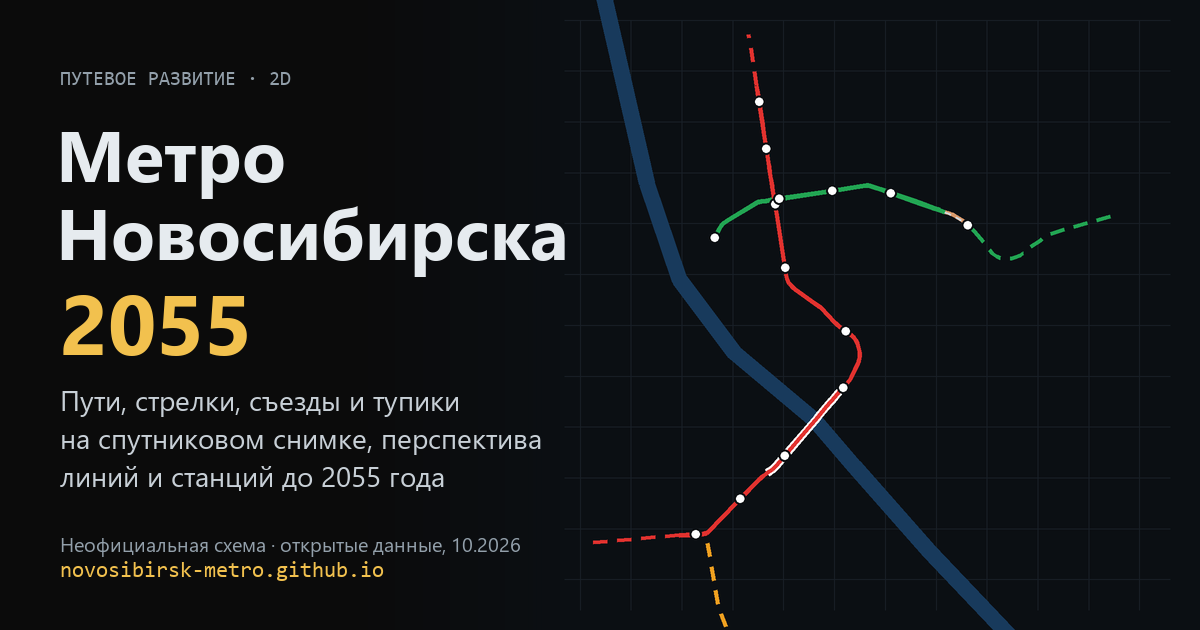
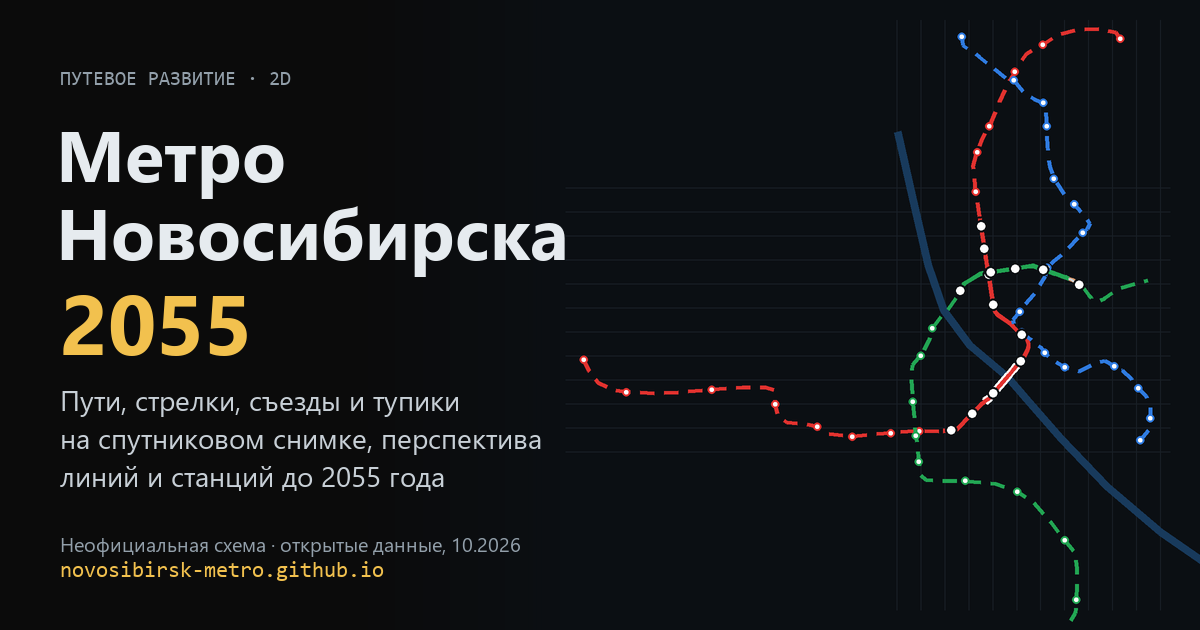
Add files via upload

diff --git a/index.html b/index.html
@@ -138,6 +138,7 @@ input[type=range]{width:100%;accent-color:var(--accent)}
       <div class="lg">
         <div><i style="--c:#e2322f"></i>Ленинская линия</div>
         <div><i style="--c:#22a653"></i>Дзержинская линия</div>
+        <div><i class="d" style="--c:#2f7be0"></i>Правобережная линия (проект)</div>
         <div><i style="--c:#d99a6c"></i>Однопутный участок (движение в обе стороны)</div>
         <div><i class="d" style="--c:#cfd6dc"></i>Недостроенный тоннель</div>
         <div><i class="d" style="--c:#22a653"></i>Проектируемый участок</div>
@@ -223,6 +224,24 @@ const FUT={
     src:['fp24','gen']}
 };
 
+/* ---------------- генеральная схема метро до 2055 г. (проект изменений Генплана, 10.2026) ---------------- */
+// трассы и станции, снятые со схемы мэрии и привязанные к карте (см. README); ед. = 10 м
+var GP={"l1n": {"pts": [[-53.2, -480.2], [-69.7, -584.0], [-80.2, -689.2], [-64.4, -748.1], [-42.7, -803.1], [-13.3, -856.2], [30.6, -958.8], [73.2, -1050.3], [91.8, -1085.0], [142.5, -1159.8], [209.0, -1197.7], [275.4, -1241.0], [361.3, -1260.4], [456.8, -1263.1], [514.3, -1247.9], [531.8, -1222.0]], "st": [{"n": "Северная", "no": "9.? (ТПУ «Северная»)", "i": 1}, {"n": "Авиационная", "no": "9.16", "i": 3}, {"n": "Космическая", "no": "9.17", "i": 5}, {"n": "Родники", "no": "9.18", "i": 8}, {"n": "Песчаная", "no": "9.19", "i": 10}, {"n": "Клюквенная", "no": "9.20", "i": 15}], "depot": null}, "l1w": {"pts": [[-224.9, 417.1], [-306.5, 414.2], [-424.4, 422.4], [-507.5, 429.7], [-584.0, 438.6], [-681.6, 426.9], [-730.4, 395.3], [-790.5, 385.6], [-858.1, 379.4], [-891.1, 355.2], [-905.1, 301.9], [-905.4, 272.6], [-911.4, 245.0], [-946.3, 233.6], [-1042.8, 232.5], [-1170.5, 241.8], [-1271.6, 251.2], [-1393.2, 258.2], [-1527.9, 251.8], [-1579.5, 245.2], [-1641.6, 214.4], [-1682.3, 163.8], [-1704.6, 115.6]], "st": [{"n": "Площадь Станиславского", "no": "пересадка на Дзержинскую", "i": 1}, {"n": "Троллейная", "no": "ТПУ «Троллейная»", "i": 2}, {"n": "Связистов", "no": "", "i": 4}, {"n": "Чистая Слобода", "no": "9.2", "i": 6}, {"n": "Западная", "no": "9.3", "i": 10}, {"n": "Экспоцентр", "no": "9.4", "i": 15}, {"n": "Город Обь", "no": "9.5", "i": 18}, {"n": "Аэропорт Толмачёво", "no": "9.6", "i": 22}], "depot": {"n": "Объект 68.1 (электродепо по условному знаку)", "route": [[-1191.6, 261.6]]}}, "l2w": {"pts": [[-152.4, -139.6], [-187.6, -91.5], [-214.6, -65.7], [-251.4, -14.3], [-265.8, 37.1], [-300.0, 100.9], [-335.6, 138.6], [-339.4, 202.1], [-333.2, 291.9], [-325.3, 381.7], [-320.3, 432.6], [-312.6, 491.5], [-307.6, 541.5], [-303.1, 593.5], [-278.4, 617.8], [-224.3, 620.0], [-114.0, 621.7], [12.7, 633.9], [102.4, 666.7], [172.1, 713.3], [240.6, 792.7], [301.9, 870.2], [342.2, 918.2], [350.3, 987.9], [350.8, 1061.2], [349.3, 1118.0], [345.9, 1172.9], [325.1, 1205.7]], "st": [{"n": "Аквапарк", "no": "9.7", "i": 3}, {"n": "Затон", "no": "9.8", "i": 5}, {"n": "Площадь Труда", "no": "9.9", "i": 8}, {"n": "Площадь Станиславского", "no": "9.10", "i": 10}, {"n": "Юго-Западная", "no": "9.11", "i": 12}, {"n": "Гвардейская", "no": "9.12", "i": 16}, {"n": "Бугринская", "no": "9.13", "i": 18}, {"n": "Лесопарковая", "no": "9.14", "i": 21}, {"n": "Краснообск", "no": "9.15", "i": 25}], "depot": {"n": "Объект 68.2 (электродепо по условному знаку)", "route": [[298.4, 1214.6]]}}, "l3": {"pts": [[-128.0, -1230.3], [-123.7, -1195.4], [-54.3, -1147.0], [30.8, -1078.2], [67.5, -1044.8], [88.5, -1048.3], [127.3, -1002.0], [173.5, -968.6], [211.8, -955.4], [222.0, -911.3], [226.5, -858.0], [227.7, -773.5], [238.5, -687.2], [256.1, -637.6], [300.1, -571.5], [341.7, -531.2], [386.6, -480.1], [405.1, -451.0], [395.9, -427.3], [375.7, -412.7], [303.0, -332.0], [254.0, -291.2], [227.7, -267.2], [219.4, -232.5], [169.4, -152.0], [132.5, -109.3], [114.0, -83.5], [84.4, -47.4], [94.4, -17.1], [121.0, 1.0], [159.0, 31.0], [200.1, 64.9], [217.2, 87.2], [253.9, 118.9], [302.2, 148.6], [361.6, 163.5], [431.1, 130.0], [468.6, 120.6], [506.7, 142.8], [541.0, 161.3], [577.8, 196.6], [607.3, 235.6], [638.5, 267.1], [658.7, 311.6], [657.8, 359.6], [656.8, 403.8], [615.7, 453.2]], "st": [{"n": "Петрозаводская", "no": "9.21 (ТПУ «Стрижи»)", "i": 0}, {"n": "Родники", "no": "9.22", "i": 5}, {"n": "Снегири", "no": "9.23", "i": 8}, {"n": "Юбилейная", "no": "9.24", "i": 10}, {"n": "Учительская", "no": "9.25", "i": 13}, {"n": "Восточная", "no": "9.26", "i": 15}, {"n": "Чкаловская", "no": "9.27", "i": 19}, {"n": "Берёзовая роща", "no": "9.28", "i": 22}, {"n": "Каменская", "no": "9.29", "i": 26}, {"n": "Октябрьская", "no": "9.30", "i": 29}, {"n": "Никитинская", "no": "9.31", "i": 32}, {"n": "Дунайская", "no": "9.32", "i": 34}, {"n": "Плющихинская", "no": "9.33", "i": 38}, {"n": "Выборная", "no": "9.34", "i": 41}, {"n": "Камышенская", "no": "9.35", "i": 44}, {"n": "Карьерная", "no": "9.36", "i": 46}], "depot": {"n": "Электродепо на Ключ-Камышенском плато (объект 60)", "route": [[607.3, 235.6], [650.0, 270.9], [696.1, 285.9], [810.8, 286.9], [846.5, 261.3]]}}};
+LINES.L3={name:'Правобережная',num:'3',color:0x2f7be0,css:'#2f7be0'};
+SRC.gp55={t:'Мэрия Новосибирска показала, каким хочет видеть метро к 2055 году (Царьград, 27.10.2026)',u:'https://nsk.tsargrad.tv/news/mjerija-novosibirska-pokazala-kakim-hochet-videt-metro-k-2055-godu_1923927'};
+SRC.ngs55={t:'Мэрия анонсировала планы по строительству новых станций метро (НГС, 26.10.2026)',u:'https://ngs.ru/text/transport/2026/10/26/76723898/'};
+var GPNOTE='Схема вошла в проект изменений Генерального плана, вынесенный на публичные слушания (22.10–20.11.2026); сроки и финансирование не определены. Положение станций снято со схемы мэрии, точность около 100–300 м.';
+FUT.l1n={title:'Ленинская линия на север: до Клюквенного',line:'L1',year:2055,stage:1,ll:[55.1298,83.0033],
+  facts:['Станции по схеме: «Северная», «Авиационная», «Космическая», «Родники» (пересадка на Правобережную линию), «Песчаная», «Клюквенная».','В Клюквенном — транспортно-пересадочный узел: метро, трамвай и городская электричка.',GPNOTE],src:['gp55','ngs55']};
+FUT.l1w={title:'Ленинская линия на запад: до аэропорта Толмачёво',line:'L1',year:2055,stage:1,ll:[55.0096,82.6529],
+  facts:['Станции по схеме: «Площадь Станиславского» (пересадка на Дзержинскую), «Троллейная», «Связистов», «Чистая Слобода», «Западная», «Экспоцентр», «Город Обь», «Аэропорт Толмачёво».','Продолжает оборотные тупики «Площади Маркса».',GPNOTE],src:['gp55','ngs55']};
+FUT.l2w={title:'Дзержинская линия на левый берег: до Краснообска',line:'L2',year:2055,stage:1,ll:[54.9196,82.9747],
+  facts:['От «Площади Гарина-Михайловского» через Обь к Лесоперевалке, далее через проезд Энергетиков, улицы Станиславского, Мира и Ватутина до Краснообска.','Станции по схеме: «Аквапарк», «Затон», «Площадь Труда», «Площадь Станиславского» (пересадка на Ленинскую), «Юго-Западная», «Гвардейская», «Бугринская», «Лесопарковая», «Краснообск»; за Краснообском — объект 68.2 (по условному знаку — электродепо).','Трасса обходит площадь Маркса; заделы советского времени у «Площади Маркса» в этом варианте не используются. Затулинского направления в схеме больше нет.',GPNOTE],src:['gp55','ngs55']};
+FUT.l3={title:'Правобережная (третья) линия',line:'L3',year:2055,stage:1,ll:[55.0440,82.9557],
+  facts:['От «Стрижей» через Калининский и Дзержинский районы до улицы Выборной и Ключ-Камышенского плато.','Станции по схеме: «Петрозаводская», «Родники», «Снегири», «Юбилейная», «Учительская», «Восточная», «Чкаловская», «Берёзовая роща» (пересадка на Дзержинскую), «Каменская», «Октябрьская» (пересадка на Ленинскую), «Никитинская», «Дунайская», «Плющихинская», «Выборная», «Камышенская», «Карьерная».','Электродепо — на Ключ-Камышенском плато, ветка от «Выборной».',GPNOTE],src:['gp55','ngs55']};
+FUT.molod.facts=['По схеме до 2055 г. Дзержинскую линию до «Молодёжной» предлагают построить полностью под землёй; раньше часть пути вдоль Гусинобродского шоссе планировали на эстакаде.','Далее — электродепо «Волочаевское» южнее станции.'];
+FUT.molod.src=['gp55','tm','tender','n79'];
+
 /* ---------------- подготовка данных ---------------- */
 var LKEY={1:'L1',2:'L2'};
 var pts=function(c){var r=[];for(var i=0;i<c.length;i+=2)r.push({x:c[i],z:c[i+1]});return r;};
@@ -296,31 +315,40 @@ function buildLine(c){
   c.stations.forEach(function(st){var s=st.s,q=at(p,S,s),pl=[];
     if(st.side){[1,-1].forEach(function(k){add({k:'plat',p:[off(at(p,S,s-5.2),k*(TR+0.25)),off(at(p,S,s+5.2),k*(TR+0.25)),off(at(p,S,s+5.2),k*(TR+0.95)),off(at(p,S,s-5.2),k*(TR+0.95))]},s);});}
     else add({k:'plat',p:[off(at(p,S,s-5.2),TR-0.25),off(at(p,S,s+5.2),TR-0.25),off(at(p,S,s+5.2),-TR+0.25),off(at(p,S,s-5.2),-TR+0.25)]},s);
-    FST.push({n:st.n,line:c.line,plan:st.plan,fut:st.fut,x:q.x,z:q.z});});
+    if(!st.skip)FST.push({n:st.n,line:c.line,plan:st.plan,fut:st.fut,x:q.x,z:q.z,grp:st.grp||c.line+'e',ord:st.ord||0,no:st.no});});
 }
+var FDEP=[];// депо новых линий по схеме Генплана
 (function(){
-  // Дзержинская: «Золотая Нива» → «Гусинобродская» → эстакада 745 м → «Молодёжная» → депо «Волочаевское».
+  // Дзержинская: «Золотая Нива» → «Гусинобродская» → «Молодёжная» → депо «Волочаевское» (по схеме 2055 — под землёй).
   // У «Гусинобродской» по плану-схеме — комплекс 570 м с перекрёстным съездом и тупиками отстоя; по trackmap
   // в боковых тупиковых тоннелях будет ПТО. Наличие — из источников, сторона и стрелки — примерно.
   var m=xw('Молодежная');if(m){var cp=m.p.concat(VOL.conn.slice(1)),S=cum(cp),g=P(55.0362,83.0004),sG=projS(cp,S,g.x,g.z),sM=cum(m.p).pop()-6;
     buildLine({line:'L2',center:cp,joinR:16,years:[[sG+45,2030],[1e9,2032]],futs:[[sG+45,'gusin'],[sM+10,'molod'],[1e9,'voloch']],
       scissors:[[sG+8,false,'Перекрёстный съезд (место примерно)']],sides:[[sG+18,sG+44,'Тупики отстоя с ПТО в боковых тоннелях (место примерно)',false]],
       stations:[{n:'Гусинобродская',s:sG,plan:2030,fut:'gusin'},{n:'Молодёжная',s:sM,plan:2032,fut:'molod',side:true}]});}
-  // Ленинская на север: «Северная»; путевое развитие в источниках нет — типовая схема конечной
-  var n=xw('Северная');if(n){var np=ext(n.p,0,18),Ln=cum(n.p).pop();
-    buildLine({line:'L1',center:np,years:[[1e9,2045]],futs:[[1e9,'l1n']],scissors:[[Ln-24,true]],tailEnd:12,tailAs:true,
-      stations:[{n:'Северная',s:Ln-6,plan:2045,fut:'l1n'}]});}
-  // Ленинская на запад: «Площадь Станиславского» → «Троллейная»; у конечной — типовая схема
-  var t=xw('Троллейная');if(t){var tp=ext(t.p,0,18),St=cum(tp),Lt=cum(t.p).pop(),sS=0;for(var i=1;i<tp.length;i++){if((tp[i-1].x+287)*(tp[i].x+287)<=0){var f=(tp[i-1].x+287)/(tp[i-1].x-tp[i].x);sS=St[i-1]+(St[i]-St[i-1])*f;break;}}
-    buildLine({line:'L1',center:tp,years:[[sS+8,2035],[1e9,2040]],futs:[[1e9,'l1w']],scissors:[[Lt-24,true]],tailEnd:12,tailAs:true,
-      stations:[{n:'Площадь Станиславского',s:sS,plan:2035,fut:'l1w'},{n:'Троллейная',s:Lt-6,plan:2040,fut:'l1w'}]});}
-  // Кировская (концепция): конечные с оборотными тупиками и съездами
-  var K=[[54.9815,82.8965],[54.9700,82.9000],[54.9600,82.9070],[54.9480,82.9150]].map(function(a){return P(a[0],a[1]);});
-  var kp=[];for(var i=1;i<K.length;i++){var a=K[i-1],b=K[i],l=Math.hypot(b.x-a.x,b.z-a.z);for(var s=0;s<l;s+=2)kp.push({x:a.x+(b.x-a.x)*s/l,z:a.z+(b.z-a.z)*s/l});}kp.push(K[K.length-1]);
-  kp=ext(kp,18,18);var Sk=cum(kp),sk=K.map(function(q){return projS(kp,Sk,q.x,q.z);}),Lk=Sk[Sk.length-1];
-  buildLine({line:'L3',center:kp,years:[[sk[0]+6,2050],[sk[1]+6,2052],[sk[2]+6,2054],[1e9,2055]],futs:[[1e9,'l3']],
-    scissors:[[sk[0]+7,true],[sk[3]-15,true]],tailStart:12,tailEnd:12,tailAs:true,
-    stations:['Площадь Маркса (Кировская)','Сибиряков-Гвардейцев','Улица Зорге','Улица Петухова'].map(function(nm,i){return {n:nm,s:sk[i],plan:[2050,2052,2054,2055][i],fut:'l3'};})});
+  // Генеральная схема до 2055 г. (проект изменений Генплана, мэрия Новосибирска, 10.2026).
+  // Трассы и станции сняты со схемы и привязаны к карте по существующим станциям (GP); точность ~100–300 м.
+  // Путевое развитие на этих линиях в схеме не показано: съезды и тупики у конечных — условные.
+  var G=function(k){return GP[k].pts.map(function(q){return {x:q[0],z:q[1]};});};
+  var chaikin=function(p,n){for(var k=0;k<n;k++){var r=[p[0]];for(var i=0;i<p.length-1;i++){var a=p[i],b=p[i+1];r.push({x:.75*a.x+.25*b.x,z:.75*a.z+.25*b.z},{x:.25*a.x+.75*b.x,z:.25*a.z+.75*b.z});}r.push(p[p.length-1]);p=r;}return p;};
+  var dens=function(p){var r=[p[0]];for(var i=1;i<p.length;i++){var a=p[i-1],b=p[i],l=Math.hypot(b.x-a.x,b.z-a.z),n=Math.max(1,Math.round(l/3));for(var j=1;j<=n;j++)r.push({x:a.x+(b.x-a.x)*j/n,z:a.z+(b.z-a.z)*j/n});}return r;};
+  var EXIST={};STN.forEach(function(s){EXIST[s.n]=true;});
+  var gpLine=function(k,line,head,o){o=o||{};var cp=dens(chaikin((head||[]).concat(G(k)),2));
+    if(o.tailStart)cp=ext(cp,o.tailStart,0);if(o.tailEnd)cp=ext(cp,0,o.tailEnd);cp=dens(cp);var S=cum(cp),L=S[S.length-1];
+    var st=GP[k].st.map(function(s,i){var q=GP[k].pts[s.i];return {n:s.n,no:s.no,s:projS(cp,S,q[0],q[1]),plan:2055,fut:k,grp:k,ord:i,skip:EXIST[s.n]};});
+    var sc=[];if(o.tailStart)sc.push([st[0].s+7,true]);if(o.tailEnd)sc.push([st[st.length-1].s-14,true]);
+    buildLine({line:line,center:cp,joinR:o.joinR||8,years:[[1e9,2055]],futs:[[1e9,k]],scissors:sc,tailStart:o.tailStart,tailEnd:o.tailEnd,tailAs:true,stations:st});
+    if(GP[k].depot)FDEP.push({n:GP[k].depot.n,line:line,fut:k,route:GP[k].depot.route.map(function(q){return {x:q[0],z:q[1]};})});};
+  // Ленинская на север: «Северная» — «Авиационная» — «Космическая» — «Родники» — «Песчаная» — «Клюквенная»
+  var n=xw('Северная');gpLine('l1n','L1',n?[n.p[0]]:[],{tailEnd:12});
+  // Ленинская на запад: «Площадь Станиславского» … «Экспоцентр» — «Город Обь» — «Аэропорт Толмачёво»
+  var t=xw('Троллейная');gpLine('l1w','L1',t?[t.p[0]]:[],{tailEnd:12});
+  // Дзержинская на левый берег: от тупиков «Площади Гарина-Михайловского» через Обь до Краснообска
+  var gm=STN.filter(function(s){return s.key.indexOf('Гарина')>=0;})[0],ge=FREE.filter(function(q){return gm&&Math.hypot(q.x-gm.x,q.z-gm.z)<30;});
+  var gh=ge.length?[{x:ge.reduce(function(a,q){return a+q.x;},0)/ge.length,z:ge.reduce(function(a,q){return a+q.z;},0)/ge.length}]:[];
+  gpLine('l2w','L2',gh,{joinR:12,tailEnd:12});
+  // Правобережная (третья) линия: «Петрозаводская» — … — «Карьерная», депо на Ключ-Камышенском плато
+  gpLine('l3','L3',[],{tailStart:12,tailEnd:12});
 })();
 // центр депо «Ельцовское»
 var DEP1=(function(){var xs=[],zs=[];WAYS.forEach(function(w){if(w.ty==='Y')w.p.forEach(function(q){xs.push(q.x);zs.push(q.z);});});
@@ -354,9 +382,12 @@ var LAYERS={tracks:['Пути',true],service:['Съезды, тупики',true]
 var on={};Object.keys(LAYERS).forEach(function(k){on[k]=LAYERS[k][1];});
 var sx=function(x){return (x-view.x)*view.s+Wd/2;},sz=function(z){return (z-view.z)*view.s+Hd/2;};
 var wx=function(px){return (px-Wd/2)/view.s+view.x;},wz=function(py){return (py-Hd/2)/view.s+view.z;};
+// общий вид: весь город с перспективой — от Толмачёво до Клюквенного и Краснообска
+function homeView(){var w=Wd-panelOff()*2-40,h=Hd-60;var x0=-1760,x1=720,z0=-1290,z1=1150;
+  return {x:(x0+x1)/2,z:(z0+z1)/2,s:Math.max(0.05,Math.min(w/(x1-x0),h/(z1-z0)))};}
 function resize(){dpr=Math.min(window.devicePixelRatio||1,2);Wd=cv.clientWidth;Hd=cv.clientHeight;cv.width=Math.round(Wd*dpr);cv.height=Math.round(Hd*dpr);
   // вкладка, открытая в фоне, стартует с нулевым размером окна — тогда стартовый вид задаётся при первом настоящем размере
-  if(Wd>0&&Hd>0&&!(view.s>=0.1)){view.x=180;view.z=-20;view.s=Math.min(Wd,Hd)/1400;view.x-=panelOff()/view.s;}
+  if(Wd>0&&Hd>0&&!(view.s>=0.05)){var h=homeView();view.x=h.x;view.z=h.z;view.s=h.s;view.x-=panelOff()/view.s;}
   draw();}
 
 function path(p){g.beginPath();for(var i=0;i<p.length;i++){var X=sx(p[i].x),Z=sz(p[i].z);i?g.lineTo(X,Z):g.moveTo(X,Z);}}
@@ -419,6 +450,12 @@ function drawFuture(){
     var w=e.main?(two?lw*0.75:lw):lw*0.5;stroke(e.p,'rgba(11,15,19,.85)',w+2.5);
     stroke(e.p,e.main?lineCol(e.line):e.as?'#6f7a84':'#9aa4ae',w,e.as?[2,3]:dash);});
   if(view.s>3&&on.stations)FEL.forEach(function(e){if(e.k!=='plat'||e.year>Y)return;path(e.p);g.closePath();g.fillStyle='rgba(230,235,239,.55)';g.fill();g.strokeStyle='rgba(230,235,239,.9)';g.lineWidth=1;g.setLineDash([3,2]);g.stroke();g.setLineDash([]);});
+  // депо новых линий по схеме Генплана: площадка условная (28×14 ед.), точка — по условному знаку на схеме
+  if(on.depots)FDEP.forEach(function(d){var e=d.route[d.route.length-1],c=lineCol(d.line);
+    if(d.route.length>1)stroke(d.route,'#9aa4ae',Math.max(1.2,lw*0.45),[5,4]);
+    d.rect=[{x:e.x-14,z:e.z-7},{x:e.x+14,z:e.z-7},{x:e.x+14,z:e.z+7},{x:e.x-14,z:e.z+7}];
+    path(d.rect);g.closePath();g.fillStyle='rgba(154,164,174,.16)';g.fill();g.strokeStyle=c;g.lineWidth=1.6;g.setLineDash([6,4]);g.stroke();g.setLineDash([]);
+    if(view.s>0.8&&on.labels)label(d.n,e.x,e.z,{dx:-60,dz:-(7*view.s+14),size:10,w:500,col:'#cfd6dc'});});
   if(Y>=2032&&on.depots){
     path(VOL.poly);g.closePath();g.fillStyle='rgba(34,166,83,.16)';g.fill();g.strokeStyle='#22a653';g.lineWidth=2;g.setLineDash([7,5]);g.stroke();g.setLineDash([]);
     path(VOL.shed);g.closePath();g.fillStyle='rgba(34,166,83,.22)';g.fill();g.strokeStyle='rgba(34,166,83,.9)';g.lineWidth=1.2;g.stroke();
@@ -497,6 +534,8 @@ function pick(px,py){var x=wx(px),z=wz(py),tol=10/view.s,best=null,bd=tol;
     if(on.future)FST.forEach(function(f){if(f.plan>Y)return;var d=Math.hypot(f.x-x,f.z-z);if(d<bd){bd=d;best=function(){openFuture(f.fut);};}});}
   if(best)return best();
   if(on.future&&on.depots&&Y>=2032&&inPoly(x,z,VOL.poly))return openFuture('voloch');
+  if(on.future&&on.depots)for(var di=0;di<FDEP.length;di++){var d=FDEP[di];if(d.rect&&inPoly(x,z,d.rect))
+    return show('<div class="eyebrow">'+chip(d.line)+' Перспектива · схема до 2055 г.</div><h3>'+esc(d.n)+'</h3><p class="desc">Место отмечено на схеме развития метро в проекте изменений Генплана (10.2026). Размер площадки на карте условный.</p><p class="desc"><a href="#" id="dpL">Линия: '+esc(FUT[d.fut].title)+'</a></p>'),$('#dpL').onclick=function(ev){ev.preventDefault();openFuture(d.fut);};}
   var bw=null;bd=6/view.s;
   WAYS.forEach(function(w){if(w.ty==='X')return;for(var i=1;i<w.p.length;i++){var d=segDist(x,z,w.p[i-1],w.p[i]);if(d<bd){bd=d;bw=w;}}});
   var bf=null;if(on.future)FEL.forEach(function(e){if(e.k!=='track'||e.year>Y)return;for(var i=1;i<e.p.length;i++){var d=segDist(x,z,e.p[i-1],e.p[i]);if(d<bd){bd=d;bf=e;}}});
@@ -517,14 +556,14 @@ cv.addEventListener('pointermove',function(e){if(!pointers[e.pointerId])return;p
 var up=function(e){var r=cv.getBoundingClientRect();if(!moved&&Object.keys(pointers).length===1)pick(e.clientX-r.left,e.clientY-r.top);
   delete pointers[e.pointerId];if(Object.keys(pointers).length<2)pinch=null;dragFrom=null;cv.classList.remove('drag');};
 cv.addEventListener('pointerup',up);cv.addEventListener('pointercancel',function(e){delete pointers[e.pointerId];pinch=null;dragFrom=null;cv.classList.remove('drag');});
-function zoomAt(px,py,k){var x=wx(px),z=wz(py);view.s=Math.max(0.12,Math.min(60,view.s*k));view.x=x-(px-Wd/2)/view.s;view.z=z-(py-Hd/2)/view.s;draw();}
+function zoomAt(px,py,k){var x=wx(px),z=wz(py);view.s=Math.max(0.05,Math.min(60,view.s*k));view.x=x-(px-Wd/2)/view.s;view.z=z-(py-Hd/2)/view.s;draw();}
 cv.addEventListener('wheel',function(e){e.preventDefault();var r=cv.getBoundingClientRect();zoomAt(e.clientX-r.left,e.clientY-r.top,Math.exp(-e.deltaY*0.0015));},{passive:false});
 $('#zIn').onclick=function(){zoomAt(Wd/2,Hd/2,1.6);};$('#zOut').onclick=function(){zoomAt(Wd/2,Hd/2,1/1.6);};
 var anim=null;
 var panelOff=function(){return window.innerWidth>760?162:0;};// панель закрывает левую часть карты
 function goTo(x,z,s,card){x-=(panelOff()-(card&&window.innerWidth>760?196:0))/s;var a={x:view.x,z:view.z,s:view.s},t0=performance.now();anim=function(now){var t=Math.min(1,(now-t0)/700),k=1-Math.pow(1-t,3);
   view.x=a.x+(x-a.x)*k;view.z=a.z+(z-a.z)*k;view.s=Math.exp(Math.log(a.s)+(Math.log(s)-Math.log(a.s))*k);render();if(t<1)requestAnimationFrame(anim);};requestAnimationFrame(anim);}
-$('#vAll').onclick=function(){goTo(180,-20,Math.min(Wd,Hd)/1400);};
+$('#vAll').onclick=function(){var h=homeView();goTo(h.x,h.z,h.s);};
 $('#vZn').onclick=function(){goTo(335,-215,7);};
 $('#vDep').onclick=function(){goTo(DEP1.x,DEP1.z,6);};
 $('#vVol').onclick=function(){goTo(VOL.center.x-10,VOL.center.z-10,4,true);openFuture('voloch');};
@@ -538,15 +577,12 @@ $('#panelToggle').onclick=function(){$('#panel').classList.toggle('closed');};
 Object.keys(LAYERS).forEach(function(k){var lb=document.createElement('label');lb.innerHTML='<input type="checkbox" id="ly_'+k+'"'+(on[k]?' checked':'')+'> '+LAYERS[k][0];
   lb.querySelector('input').onchange=function(e){on[k]=e.target.checked;draw();};$('#layers').appendChild(lb);});
 function renderList(){var box=$('#stList');box.innerHTML='<h2>Станции</h2>';
-  var lists={L1:[],L2:[],L3:[]};
-  FST.filter(function(f){return f.n==='Северная';}).forEach(function(f){lists.L1.push(f);});
-  ORDER.L1.forEach(function(id){if(SBYID[id])lists.L1.push(SBYID[id]);});
-  FST.filter(function(f){return f.line==='L1'&&f.n!=='Северная';}).forEach(function(f){lists.L1.push(f);});
-  ORDER.L2.forEach(function(id){if(SBYID[id])lists.L2.push(SBYID[id]);});
-  FST.filter(function(f){return f.line==='L2';}).forEach(function(f){lists.L2.push(f);});
-  FST.filter(function(f){return f.line==='L3';}).forEach(function(f){lists.L3.push(f);});
+  // порядок по линиям: север/запад → существующие станции → продления
+  var grp=function(g,rev){return FST.filter(function(f){return f.grp===g;}).sort(function(a,b){return rev?b.ord-a.ord:a.ord-b.ord;});};
+  var ex=function(k){return ORDER[k].map(function(id){return SBYID[id];}).filter(Boolean);};
+  var lists={L1:grp('l1n',true).concat(ex('L1'),grp('l1w')),L2:grp('l2w',true).concat(ex('L2'),grp('L2e')),L3:grp('l3')};
   Object.keys(lists).forEach(function(k){var arr=lists[k].filter(function(s){return !s.plan||s.plan<=Y;});if(!arr.length)return;
-    var h=document.createElement('div');h.className='line-h';h.innerHTML=chip(k)+' '+LINES[k].name+(k==='L3'?' (резерв)':'');box.appendChild(h);
+    var h=document.createElement('div');h.className='line-h';h.innerHTML=chip(k)+' '+LINES[k].name+(k==='L3'?' (проект)':'');box.appendChild(h);
     var ul=document.createElement('div');ul.className='st-list';ul.style.setProperty('--c',LINES[k].css);
     arr.forEach(function(s){var b=document.createElement('button');b.type='button';if(s.plan)b.className='plan';
       b.innerHTML='<span>'+esc(s.n)+'</span><span class="y">'+(s.plan?'≈'+s.plan:(s.m.open||'').slice(-4))+'</span>';

diff --git a/README.md b/README.md
@@ -6,8 +6,11 @@
 - Оба главных пути, съезды, тупики, стрелочные переводы, упоры, платформы и выходы действующих станций.
 - Участок «Берёзовая роща» — «Золотая Нива»: камера съездов, единственный действующий северный тоннель (482 м)
   и недостроенный южный тоннель II пути.
-- Перспектива пунктиром: продление Дзержинской линии до «Гусинобродской» и «Молодёжной», депо «Волочаевское»,
-  продления Ленинской линии на север и запад, Кировская линия (концепция).
+- Перспектива пунктиром — по генеральной схеме развития метро до 2055 года из проекта изменений Генплана
+  (мэрия Новосибирска, октябрь 2026): Ленинская линия до Клюквенного и аэропорта Толмачёво, Дзержинская —
+  до «Молодёжной» с депо «Волочаевское» и на левый берег до Краснообска, новая Правобережная линия
+  от «Петрозаводской» до «Карьерной» с депо на Ключ-Камышенском плато. Трассы и станции сняты со схемы
+  и привязаны к карте по существующим станциям; точность около 100–300 м.
 - Серым с пометкой «условно» показано типовое путевое развитие там, где в открытых источниках его нет.
 - Ползунок года, клик по станции или объекту — карточка со сведениями и источниками.
 
@@ -22,6 +25,8 @@
 
 - Пути, станции, платформы, выходы: © участники OpenStreetMap, лицензия ODbL — https://www.openstreetmap.org/copyright
 - Спутниковые снимки: Esri World Imagery (Esri, Maxar, Earthstar Geographics), загружаются с серверов Esri.
+- Перспектива до 2055 г.: схема развития метрополитена в проекте изменений Генерального плана Новосибирска
+  (публичные слушания 22.10–20.11.2026), публикации «Царьград Новосибирск» и НГС от 26–27.10.2026.
 - Схема путевого развития: trackmap.ru (В. Прудников, вер. 4.6, 12.2025); генплан Новосибирска;
   план-схема продления Дзержинской линии; Википедия; новостные источники, указанные в карточках.
 
